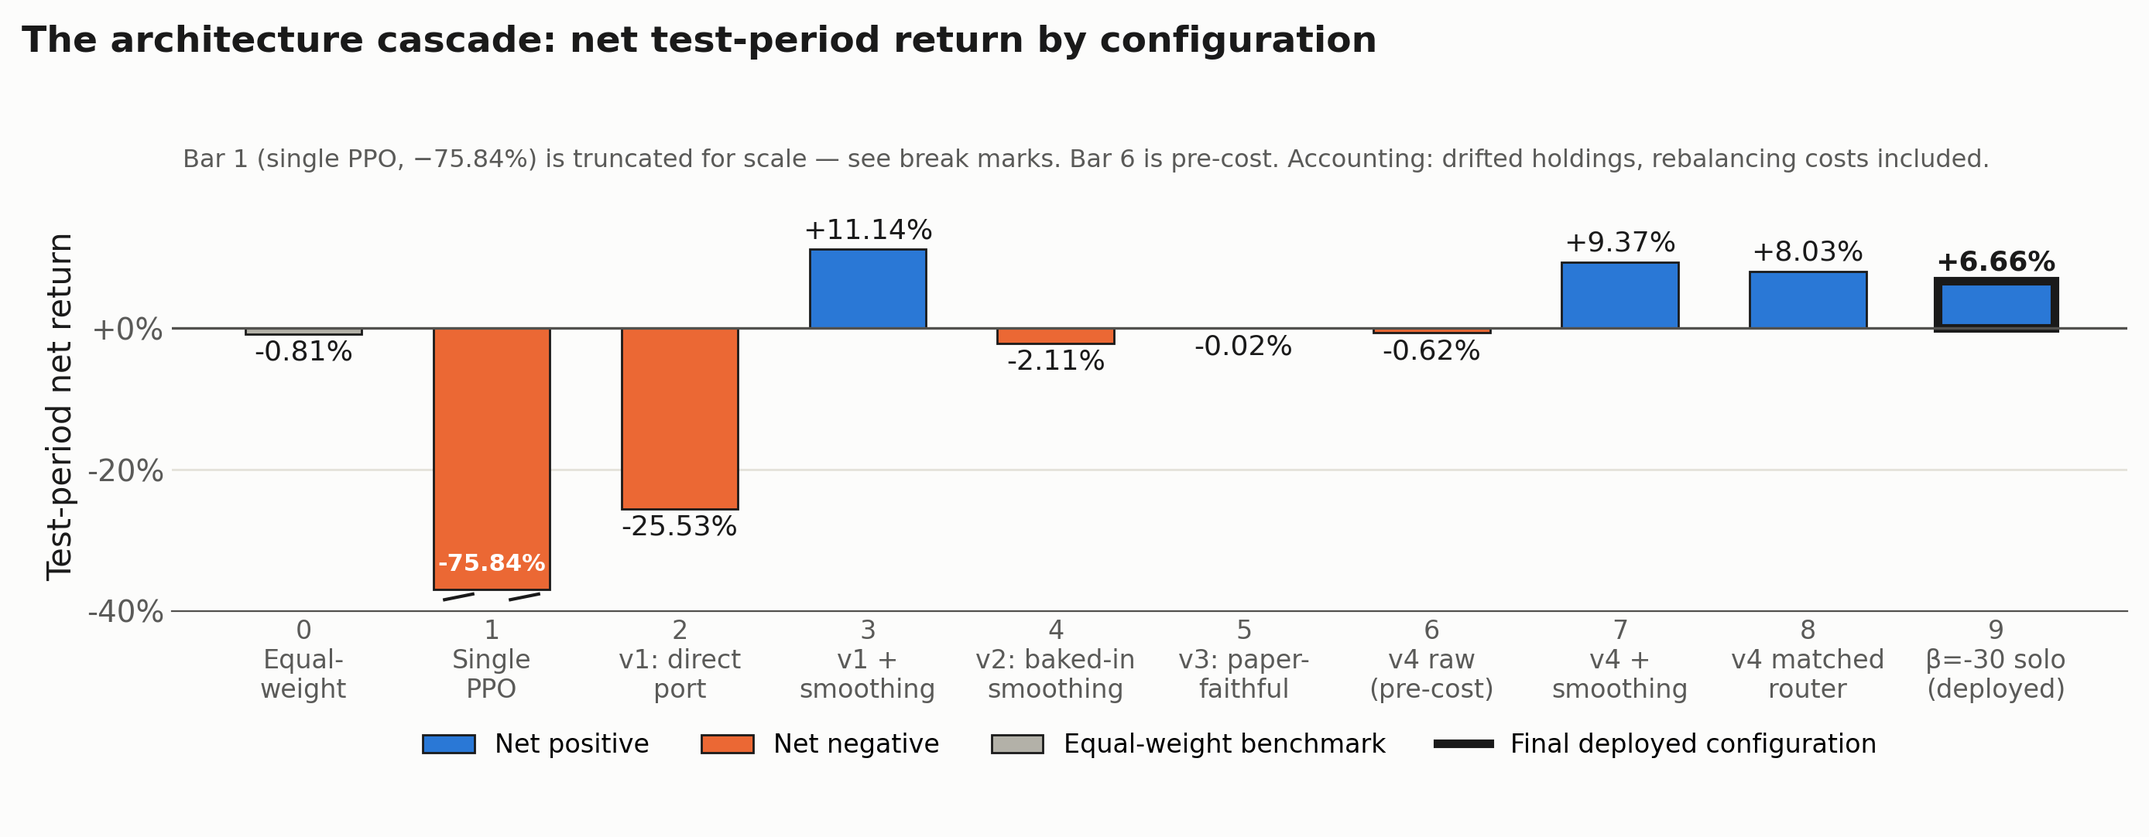
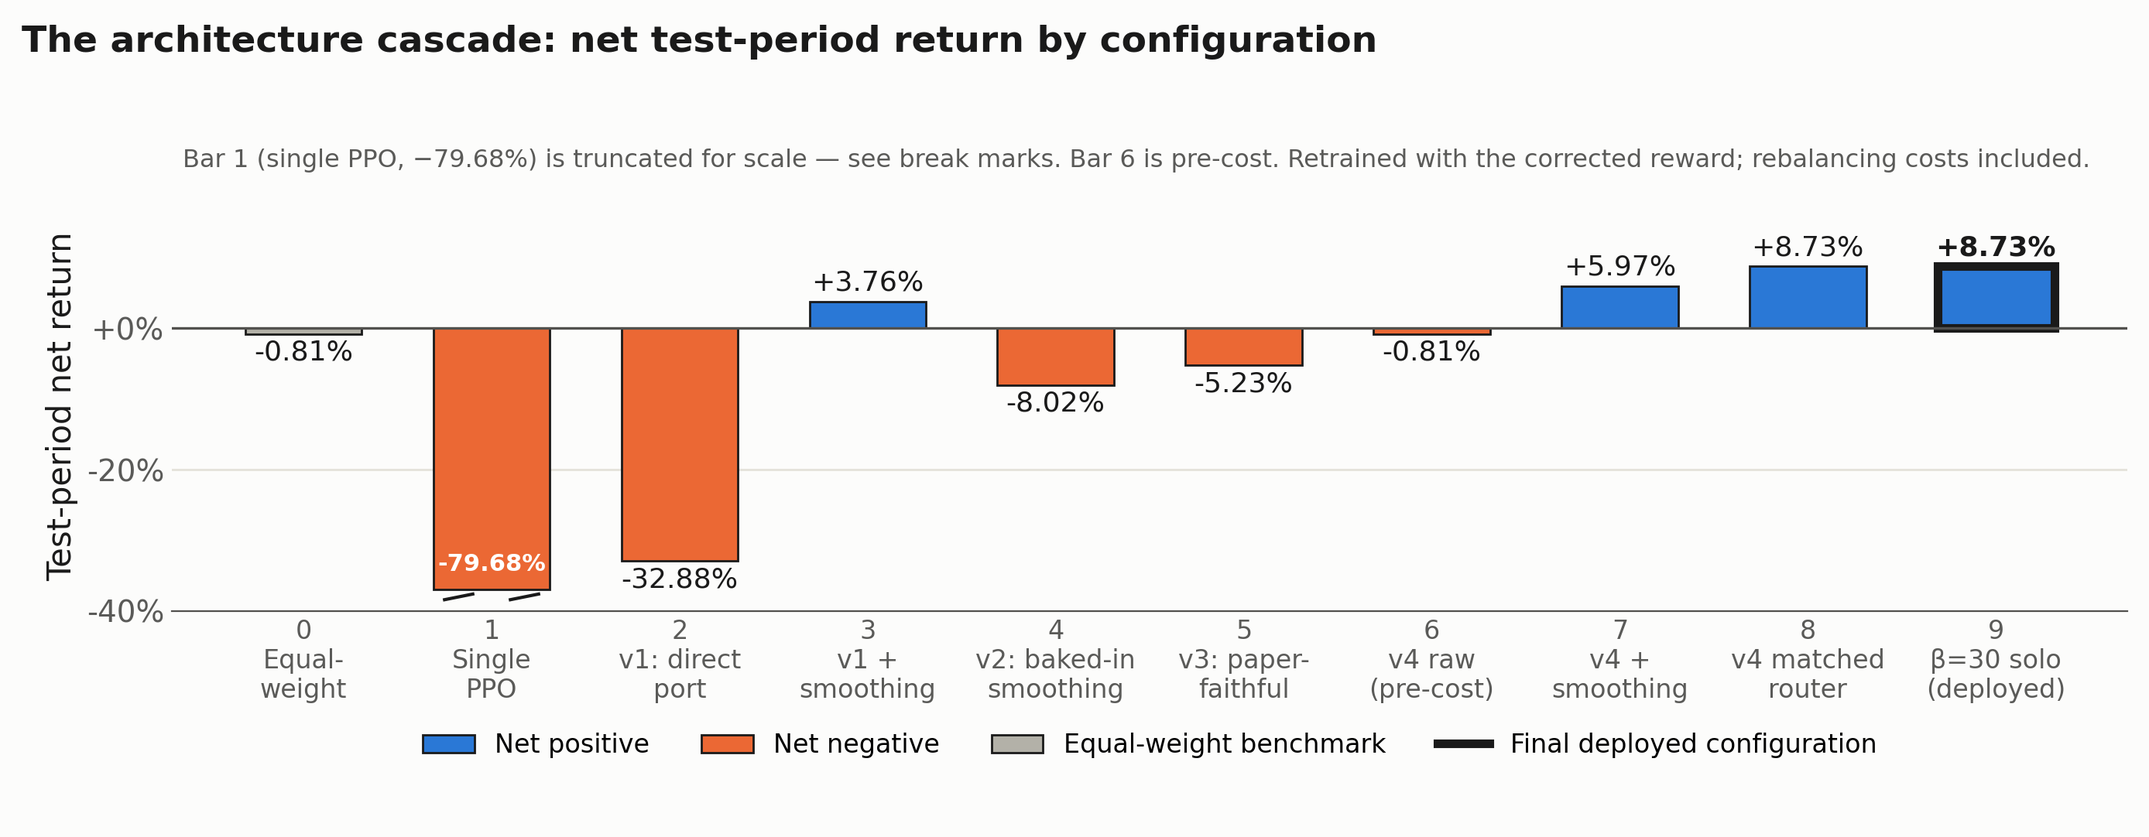
docs: 그림 1·2를 재학습 수치로 다시 그리고 캡션 갱신

diff --git a/paper/figures/generate_fig2.py b/paper/figures/generate_fig2.py
@@ -16,15 +16,15 @@ BG = "#fcfcfb"
 TEXT_DARK = "#1a1a1a"
 TEXT_GRAY = "#5a5a58"
 
-# Post-accounting-correction values (2026-10-04 rerun, crypto/notebooks/rerun_fix1004/results/).
-# Pre-correction experiments (top-K sweep, KOSPI HRL candidate) are deliberately excluded.
+# Policies retrained with the corrected reward (2026-10-06~08, crypto/notebooks/retrain1006/,
+# paper/RETRAIN_1006.md). The clean retrain is excluded: its validation Sharpe was not saved.
 # ---- labeled (highlighted) points: (valid, test, label, color, marker, label_offset) ----
 labeled = [
-    (0.189, 3.033, "β=30", ORANGE, "o", (0.14, 0.05)),
-    (-0.251, 2.240, "Momentum top-10", ORANGE, "s", (0.16, -0.05)),
-    (-0.427, 2.577, "Seed 11 (raw Sharpe max)", AQUA, "o", (0.14, 0.1)),
-    (0.914, 1.310, "β=−30 (deployed)", BLUE, "o", (0.14, -0.05)),
-    (-1.284, -1.175, "β=90 (smallest gap, both negative)", GRAY_EDGE, "^", (0.14, 0.0)),
+    (0.653, 2.602, "β=30 (deployed)", BLUE, "o", (0.14, 0.24)),
+    (-0.986, 2.893, "Seed 121 (raw Sharpe max)", AQUA, "o", (0.14, 0.24)),
+    (-0.251, 2.240, "Momentum", ORANGE, "s", (0.14, -0.02)),
+    (-1.155, 0.448, "β=−30 (old pick)", ORANGE, "o", (0.16, -0.02)),
+    (-0.971, -1.065, "β=90 (smallest gap, both negative)", GRAY_EDGE, "^", (0.14, 0.0)),
 ]
 
 # ---- other configurations (valid Sharpe, test Sharpe, source) ----
@@ -33,39 +33,39 @@ others = [
     (-0.443, 0.854, "Buy & Hold"),
     (-1.078, -0.032, "MVO (Ledoit-Wolf)"),
     (-1.060, -0.497, "Risk parity (inverse-vol)"),
-    (-0.990, 0.176, "EIIE"),
-    (-0.976, 0.214, "LSRE-CAAN"),
-    (0.974, 1.409, "TC=5bp"),
-    (0.794, 1.113, "TC=20bp"),
-    (-0.373, 0.471, "β=-90"),
-    (-0.464, 1.644, "6-seed ensemble"),
-    (-0.460, 0.957, "5-seed ensemble (no seed 11)"),
-    (-0.573, 1.110, "clean retrain"),
-    (0.253, 0.902, "seed=22"), (-0.347, -0.008, "seed=33"), (-1.355, 1.142, "seed=44"),
-    (-0.880, 1.107, "seed=55"), (-1.152, -0.579, "seed=66"), (-0.801, 0.112, "seed=77"),
-    (-0.458, 2.207, "seed=88"), (-0.633, 0.142, "seed=99"), (-1.143, 0.973, "seed=110"),
-    (-0.992, 0.167, "seed=121"), (-0.649, 1.152, "seed=132"), (-1.070, 0.390, "seed=143"),
-    (-0.206, 0.443, "seed=154"), (0.215, 1.610, "seed=165"),
+    (-0.991, 0.148, "EIIE"),
+    (-0.975, 0.193, "LSRE-CAAN"),
+    (0.693, 2.665, "TC=5bp"),
+    (0.573, 2.477, "TC=20bp"),
+    (-0.111, 0.743, "β=-90"),
+    (-1.322, 0.106, "K=5"), (-1.122, 0.672, "K=7"), (-0.916, 0.760, "K=15"),
+    (-0.548, 1.054, "6-seed ensemble"),
+    (-0.797, 1.165, "5-seed ensemble (no seed 11)"),
+    (0.601, 0.383, "seed=11"), (0.732, 1.916, "seed=22"), (-1.313, 1.205, "seed=33"),
+    (-0.788, -0.187, "seed=44"), (-1.365, 1.465, "seed=55"), (-1.067, -0.349, "seed=66"),
+    (-1.108, 0.247, "seed=77"), (-1.761, -0.292, "seed=88"), (-0.464, 1.997, "seed=99"),
+    (-0.238, 0.271, "seed=110"), (-0.771, 1.773, "seed=132"), (-1.225, 0.399, "seed=143"),
+    (-0.526, 1.642, "seed=154"), (-0.788, 1.212, "seed=165"),
 ]
 
 fig, ax = plt.subplots(figsize=(2069/300, 1759/300), dpi=300)
 fig.patch.set_facecolor(BG)
 ax.set_facecolor(BG)
 
-lo, hi = -1.6, 3.4
+lo, hi = -2.0, 3.4
 
 # consistency band |test - valid| < 0.3
 xx = np.linspace(lo, hi, 100)
 ax.fill_between(xx, xx - 0.3, xx + 0.3, color=BAND_COLOR, zorder=1, linewidth=0)
 ax.plot([lo, hi], [lo, hi], linestyle=(0, (7, 5)), color=LINE_COLOR, linewidth=1.8, zorder=2)
-ax.text(hi - 0.75, hi - 0.98, "valid = test", color=TEXT_GRAY, fontsize=12,
-        rotation=45, ha="left", va="center", style="italic")
+ax.text(1.55, 1.2, "valid = test", color=TEXT_GRAY, fontsize=12,
+        rotation=37, ha="left", va="center", style="italic")
 
 # other points
 ox = [p[0] for p in others]
 oy = [p[1] for p in others]
 ax.scatter(ox, oy, s=90, facecolor=GRAY_FILL, edgecolor=GRAY_EDGE, linewidth=0.8,
-           zorder=3, alpha=0.95, label=f"Seeds, ensembles, baselines, TC sweep (n={len(others)})")
+           zorder=3, alpha=0.95, label=f"Seeds, ensembles, baselines, TC and top-K sweeps (n={len(others)})")
 
 # labeled points
 marker_size = {"o": 260, "s": 230, "^": 260}
@@ -75,10 +75,10 @@ for vx, vy, label, color, marker, (dx, dy) in labeled:
     ax.text(vx + dx, vy + dy, label, fontsize=12.5, fontweight="bold", color=TEXT_DARK,
             ha="left" if dx >= 0 else "right", va="center", zorder=6)
 
-ax.set_xlim(-1.6, hi)
+ax.set_xlim(lo, hi)
 ax.set_ylim(lo, hi)
-ax.set_xticks([-1, 0, 1, 2, 3])
-ax.set_yticks([-1, 0, 1, 2, 3])
+ax.set_xticks([-2, -1, 0, 1, 2, 3])
+ax.set_yticks([-2, -1, 0, 1, 2, 3])
 ax.tick_params(labelsize=15, colors=TEXT_DARK, length=0)
 ax.grid(True, color=GRID_COLOR, linewidth=1.1, zorder=0)
 for spine in ["top", "right"]:
@@ -90,10 +90,10 @@ for spine in ["left", "bottom"]:
 ax.set_xlabel("Validation-period Sharpe", fontsize=16, color=TEXT_DARK, labelpad=10)
 ax.set_ylabel("Test-period Sharpe", fontsize=16, color=TEXT_DARK, labelpad=12)
 
-fig.suptitle("Validation vs. test Sharpe (corrected accounting)",
+fig.suptitle("Validation vs. test Sharpe (retrained policies)",
              x=0.02, y=0.975, ha="left", fontsize=14, fontweight="bold", color=TEXT_DARK)
 fig.text(0.02, 0.928,
-          "Most configurations lose in validation and gain in test; only the deployed seed is positive in both",
+          "Most lose in validation and gain in test; only β=30 seeds 42, 11, 22 are positive in both",
           fontsize=9.5, color=TEXT_GRAY, ha="left")
 
 leg = ax.legend(loc="upper center", bbox_to_anchor=(0.5, -0.14), frameon=False,

diff --git a/paper/figures/generate_fig1.py b/paper/figures/generate_fig1.py
@@ -1,7 +1,7 @@
 """Figure 1 — Table 1 (Section 5) as a bar chart.
 
-Values are the post-accounting-correction test-period net returns (2026-10-04 rerun,
-crypto/notebooks/rerun_fix1004/results/). Row 6 is pre-cost, as in Table 1.
+Values are the test-period net returns of the policies retrained with the corrected reward
+(2026-10-06~07, crypto/notebooks/retrain1006/, paper/RETRAIN_1006.md). Row 6 is pre-cost, as in Table 1.
 """
 import matplotlib
 matplotlib.use("Agg")
@@ -20,15 +20,15 @@ FLOOR = -40.0  # axis floor; bars below are truncated
 
 rows = [
     ("Equal-\nweight", -0.81),
-    ("Single\nPPO", -75.84),
-    ("v1: direct\nport", -25.53),
-    ("v1 +\nsmoothing", 11.14),
-    ("v2: baked-in\nsmoothing", -2.11),
-    ("v3: paper-\nfaithful", -0.02),
-    ("v4 raw\n(pre-cost)", -0.62),
-    ("v4 +\nsmoothing", 9.37),
-    ("v4 matched\nrouter", 8.03),
-    ("β=-30 solo\n(deployed)", 6.66),
+    ("Single\nPPO", -79.68),
+    ("v1: direct\nport", -32.88),
+    ("v1 +\nsmoothing", 3.76),
+    ("v2: baked-in\nsmoothing", -8.02),
+    ("v3: paper-\nfaithful", -5.23),
+    ("v4 raw\n(pre-cost)", -0.81),
+    ("v4 +\nsmoothing", 5.97),
+    ("v4 matched\nrouter", 8.73),
+    ("β=30 solo\n(deployed)", 8.73),
 ]
 DEPLOYED = 9
 
@@ -70,8 +70,8 @@ ax.set_ylabel("Test-period net return", fontsize=15, color=TEXT_DARK)
 
 fig.suptitle("The architecture cascade: net test-period return by configuration",
              x=0.01, y=0.97, ha="left", fontsize=17, fontweight="bold", color=TEXT_DARK)
-fig.text(0.085, 0.80, "Bar 1 (single PPO, −75.84%) is truncated for scale — see break marks. "
-         "Bar 6 is pre-cost. Accounting: drifted holdings, rebalancing costs included.",
+fig.text(0.085, 0.80, "Bar 1 (single PPO, −79.68%) is truncated for scale — see break marks. "
+         "Bar 6 is pre-cost. Retrained with the corrected reward; rebalancing costs included.",
          fontsize=11.5, color=TEXT_GRAY, ha="left")
 
 handles = [Patch(facecolor=BLUE, edgecolor=TEXT_DARK, label="Net positive"),

diff --git a/paper/DRAFT.md b/paper/DRAFT.md
@@ -3,7 +3,7 @@
 *Target venue: KDD Applied Data Science track / ACM ICAIF (2027 cycle). Draft status: Abstract + Introduction, first pass.*
 
 
-> **Retraining status (2026-10-08).** The crypto-track policies have been retrained from scratch with a reward that reflects the corrected accounting (Section 3.3), and every crypto figure in Sections 4–6 is a retrained result (`paper/RETRAIN_1006.md`). What remains is regenerating Figures 1–2, filling in the validation-period figures of the Section 6.3 clean retrain, and (optionally) recomputing the Section 6.4 ensemble over 16 seeds.
+> **Retraining status (2026-10-08).** The crypto-track policies have been retrained from scratch with a reward that reflects the corrected accounting (Section 3.3), and every crypto figure in Sections 4–6 is a retrained result (`paper/RETRAIN_1006.md`). What remains is filling in the validation-period figures of the Section 6.3 clean retrain, and (optionally) recomputing the Section 6.4 ensemble over 16 seeds.
 ---
 
 ## Abstract
@@ -230,7 +230,7 @@ Two patterns run through this table. First, the large improvements in the cascad
 
 ![Figure 1: Net test return by configuration](figures/fig1_architecture_cascade.png)
 
-**Figure 1.** A visualization of Table 1. *The current figure is drawn from pre-retraining numbers and needs to be regenerated* (`paper/figures/generate_fig1.py`). Blue bars are net-positive, orange bars net-negative; the deployed configuration (9) is outlined in black. Bar 1 (single PPO) is truncated for scale.
+**Figure 1.** A visualization of Table 1. Drawn from the retrained results (`paper/figures/generate_fig1.py`). Blue bars are net-positive, orange bars net-negative; the deployed configuration (9) is outlined in black. Bar 1 (single PPO) is truncated for scale.
 
 Table 2 places the deployment candidate (row 9) alongside classical and deep-learning baselines and the robustness variants of Section 6, reporting the validation (2025 Q4) / test (2026 H1) Sharpe gap alongside:
 
@@ -416,7 +416,7 @@ Three things follow. First, **the drawdown improvement comes almost entirely fro
 
 ![Figure 2: Validation/test consistency across every swept configuration](figures/fig2_valid_test_consistency.png)
 
-**Figure 2.** *The current figure is drawn from pre-retraining numbers and needs to be regenerated.* Every configuration in Section 6 for which both a validation-period and a test-period Sharpe ratio were computed, plotted against the $y=x$ diagonal (shaded band: $|$gap$|<0.3$). The top-$K$ sweep (Section 6.8, recomputed after the figure was drawn and not added) and the KOSPI candidate of Section 7 (a different market) are excluded (`paper/figures/generate_fig2.py`). After regeneration, the deployment candidate $\beta=30$ will sit 1.950 from the diagonal, 13 of the 16 seeds and the ensembles will cluster in the "validation negative, test positive" quadrant, and the point closest to the diagonal will be $\beta=90$ (0.094), negative in both periods — proximity to the diagonal is not by itself a sufficient success criterion.
+**Figure 2.** Every configuration in Section 6 for which both a validation-period and a test-period Sharpe ratio were computed, plotted against the $y=x$ diagonal (shaded band: $|$gap$|<0.3$); all crypto points are retrained results. The clean retrain (Section 6.3, validation Sharpe not saved) and the KOSPI candidate of Section 7 (a different market) are excluded (`paper/figures/generate_fig2.py`). The deployment candidate $\beta=30$ sits 1.950 from the diagonal; 13 of the 16 seeds, the ensembles, and the $K\neq10$ variants cluster in the "validation negative, test positive" quadrant; seed 121, the raw test-Sharpe maximum, is negative in validation; and the point closest to the diagonal is $\beta=90$ (0.094), negative in both periods — proximity to the diagonal is not by itself a sufficient success criterion.
 
 ---
 
@@ -485,7 +485,7 @@ We list the limitations of this study directly, in the order they arise across S
 8. **The EIIE and LSRE-CAAN baselines (Section 6.6) reimplement only the network topology, not the original training procedure.** Both original papers' training methods (EIIE's OSBL, LSRE-CAAN's direct policy gradient) are replaced with this paper's PPO pipeline; the comparisons in Section 6.6 should be read as "each architecture under our training regime," not as full reproductions of Jiang, Xu, & Liang (2017) or Li, Zhang, Yang, & Chen (2023).
 9. **This is an empirical case study and diagnostic methodology, not a new algorithm.** Every architectural component in Sections 4 and the diagnostics in Section 6 are adaptations of existing published methods (Section 2); the paper's contribution is the documented failure cascade and the validation methodology built to interrogate it, which is why we position this work for an applied-science venue (Section 1) rather than a methods-focused main research track.
 10. **Live deployment evidence is preliminary.** The final policy (Section 4.6) is running on a real exchange account as of this writing, but the live trading log has been accumulating only since 2026-07-29 and is not yet long enough to serve as an independent validation of the backtested results reported in Sections 5–6; we report the live deployment as the current operational status of this work, not as additional evidence for its claims. Moreover, the policy running in the live account is the $\beta=-30$ specialist trained with the pre-correction reward; it differs from the retrained deployment candidate ($\beta=30$), and after retraining the same configuration loses money in validation — it needs to be replaced. That the replacement candidate $\beta=30$ is a very conservative policy with 10–20% average risky-asset exposure (Section 6.11) should also inform that operational decision.
-11. **The crypto policies have been retrained with the corrected reward, but the figures and a few auxiliary numbers have not yet been updated.** After fixing the accounting errors of Section 3.3 (holding drift and untradable-asset handling), we retrained and re-evaluated from scratch, with the corrected reward, the crypto policies, routers, baselines, and robustness experiments of Sections 4–6, as well as the objective-injection experiment of Section 4.3 (`crypto/notebooks/retrain1006/`, `paper/RETRAIN_1006.md`). Figures 1–2 are drawn from pre-retraining numbers and need to be regenerated, the validation-period figures of the Section 6.3 clean retrain are not yet filled in, and the Section 6.4 ensemble was computed over the first six seeds only. The KOSPI, U.S. large-cap, and point-in-time experiments of Section 7 were recomputed under the corrected environment (only the KOSPI single-policy PPO was retrained; the rest were re-evaluated). The Section 7 KOSPI HRL was trained on the original, defective embedding pipeline.
+11. **The crypto policies have been retrained with the corrected reward, but a few auxiliary numbers have not yet been updated.** After fixing the accounting errors of Section 3.3 (holding drift and untradable-asset handling), we retrained and re-evaluated from scratch, with the corrected reward, the crypto policies, routers, baselines, and robustness experiments of Sections 4–6, as well as the objective-injection experiment of Section 4.3 (`crypto/notebooks/retrain1006/`, `paper/RETRAIN_1006.md`). The validation-period figures of the Section 6.3 clean retrain are not yet filled in, and the Section 6.4 ensemble was computed over the first six seeds only. The KOSPI, U.S. large-cap, and point-in-time experiments of Section 7 were recomputed under the corrected environment (only the KOSPI single-policy PPO was retrained; the rest were re-evaluated). The Section 7 KOSPI HRL was trained on the original, defective embedding pipeline.
 
 ---
 
@@ -502,7 +502,7 @@ The live account currently runs the pre-retraining policy ($\beta=-30$), which n
 ## Notes for next drafting pass (not part of the paper body)
 
 - **Related work added (2026-10-04)**: per the external critique, added MoEDRLPM (Wei et al., 2025, Appl. Intell.) to Section 2.1 and DeepTrader (Wang et al., 2021, AAAI) to Section 2.2, with ‡ rows in the Section 2.6 table (abstract-based, not checked against full text). Contribution 2 now states that the structure itself exists in prior work. Bibliographic data verified via Crossref. Remaining: fill the ‡ rows once full texts are obtained.
-- **β=30 robustness and evaluation re-runs applied (2026-10-08)**: results of `crypto_beta30_robustness_rt1006` (16 seeds, DSR N=16, clean retrain, top-K) and `crypto_eval_beta30_ddqn_rt1006` (transaction cost, permutation test, exposure matching, diversity, low turnover, DDQN) applied to the Abstract, 1.3, 1.4, 4.4, 4.5, 4.6, Table 2, 6.1–6.4, 6.8–6.11, the Figure 2 caption, Limitations 2/3/4/6/7/10/11, and Section 9. Main changes: all ten added seeds have negative validation Sharpe; K=10 is now also selected by validation (the pre-retraining K=5 issue is gone); permutation p-values no longer follow the qualitative ordering; exposure matching reproduces most test performance via exposure timing (Sharpe 1.998 vs. 2.602); DDQN collapses onto β=90. Remaining: regenerate Figures 1–2, fill in the 6.3 clean model's validation figures, optionally recompute the 6.4 ensemble over 16 seeds.
+- **β=30 robustness and evaluation re-runs applied (2026-10-08)**: results of `crypto_beta30_robustness_rt1006` (16 seeds, DSR N=16, clean retrain, top-K) and `crypto_eval_beta30_ddqn_rt1006` (transaction cost, permutation test, exposure matching, diversity, low turnover, DDQN) applied to the Abstract, 1.3, 1.4, 4.4, 4.5, 4.6, Table 2, 6.1–6.4, 6.8–6.11, the Figure 2 caption, Limitations 2/3/4/6/7/10/11, and Section 9. Main changes: all ten added seeds have negative validation Sharpe; K=10 is now also selected by validation (the pre-retraining K=5 issue is gone); permutation p-values no longer follow the qualitative ordering; exposure matching reproduces most test performance via exposure timing (Sharpe 1.998 vs. 2.602); DDQN collapses onto β=90. Figures 1–2 regenerated from retrained values the same day. Remaining: fill in the 6.3 clean model's validation figures, optionally recompute the 6.4 ensemble over 16 seeds.
 - **Full retraining with the corrected reward applied (2026-10-07)**: retrained the single PPO, v1–v4, routers, EIIE/LSRE-CAAN, and β=30 six seeds/ensemble/DSR via `crypto/notebooks/retrain1006/`. The deployment candidate changed from β=−30 to β=30 (validation Sharpe 0.653, test 2.602). Updated the abstract, Sections 1.2–1.4, 4, 5, 6.1, 6.2, 6.4, 6.6, Section 7 crypto references, Limitations 2, 3, 4, 6, 7, 10, 11, and Section 9. Section 6.1 N=16, 6.3, 6.8–6.11, Section 4.4 diagnostic figures, and Figures 1–2 await re-runs/regeneration (`paper/RETRAIN_1006.md`).
 - **Objective-injection and DDQN retraining applied (2026-10-05)**: results of `crypto_objinj_retrain_fix1004.ipynb` (baseline, λ=0.01, λ=0.15 pools retrained) and `crypto_ddqn_retrain_fix1004.ipynb` (DQN/DDQN matched routers retrained). Withdrew the Section 4.3 dose-response claim (rank correlation −0.400/−0.800/−0.600, non-monotonic); DDQN collapsed onto β=−30, so "collapses onto the same specialist" became "the collapse recurs, the target specialist depends on the algorithm." Updated Sections 4.5, 3.3, Limitations 1, 3, 11, and Section 9.
 - **Section 6.8 top-$K$ sweep re-evaluated (2026-10-05)**: re-evaluated the K=5/7/15 models under the corrected environment (`crypto_topk_rerun_fix1004.ipynb`). The highest validation Sharpe turned out to be K=5 (1.529), so the claim that "only K=10 passes the consistency criterion" was withdrawn and K=10 is now described as fixed before the sweep. Updated the Section 3.3 exception list, Figure 2 caption, Limitations 2 and 11, Section 1.3, and the "second-largest gap" wording in Section 5.

diff --git a/README.md b/README.md
@@ -119,7 +119,7 @@ EarnHFT(Qin et al., AAAI'24)라는 논문은 원래 자산 하나, 포지션도 
 
 이 결론이 우연이 아닌지 확인하려고 할 수 있는 건 다 해봤다. 시드 16개 중 12개는 테스트에서 등가중보다 낫지만, 검증에서 플러스인 건 3개(42, 11, 22)뿐이고 새로 더한 10개는 전부 검증 마이너스다. 앙상블은 검증에서 손실, DSR(0.707, N=16)과 순열검정(p=0.50)도 유의수준에 못 미친다. 즉 "검증·테스트 둘 다 플러스"는 구성 전반이 아니라 일부 시드의 성질이다. 클린 재학습(테스트 샤프 1.907), top-K 스윕(K=10이 검증으로도 최고), 거래비용 2배(샤프 2.477)에서는 결론이 유지된다. 가장 중요한 발견은 노출 맞춤 비교다 — 이 정책은 평균 노출 10~20%의 매우 보수적인 정책이고, 같은 노출 경로로 등가중을 들어도 테스트 샤프 1.998·MDD −4.60%가 나온다. 낮은 낙폭은 거의 전부, 테스트 성과는 대부분 노출 타이밍에서 온다. 자세한 수치는 5.3절과 [`paper/RETRAIN_1006.md`](paper/RETRAIN_1006.md) 참고.
 
-> 2026-10-04: 외부 평가에서 백테스트 회계 오류(수익 반영 뒤에도 목표 비중을 그대로 보유 비중으로 써서 등가중 포함 재조정 비용이 0으로 계산되고, 상장 전·상폐 후 종목을 수익률 0 자산처럼 들고 있을 수 있던 문제)를 지적받아 전 노트북을 고치고 재평가했다. 이 README의 크립토 수치는 수정된 보상으로 **다시 학습한** 정책의 값이다(2026-10-07, `crypto/notebooks/retrain1006/`). 그림 1·2만 아직 재학습 전 수치다.
+> 2026-10-04: 외부 평가에서 백테스트 회계 오류(수익 반영 뒤에도 목표 비중을 그대로 보유 비중으로 써서 등가중 포함 재조정 비용이 0으로 계산되고, 상장 전·상폐 후 종목을 수익률 0 자산처럼 들고 있을 수 있던 문제)를 지적받아 전 노트북을 고치고 재평가했다. 이 README의 크립토 수치는 수정된 보상으로 **다시 학습한** 정책의 값이다(2026-10-07, `crypto/notebooks/retrain1006/`). 그림 1·2도 재학습 결과로 다시 그렸다.
 
 ---
 
@@ -345,7 +345,6 @@ python -m crypto.live_trading_loop_binance --model-dir crypto/models --live
 - 백테스트 회계 오류 수정(2026-10-04)과 크립토 정책 전체 재학습(2026-10-06~07, `crypto/notebooks/retrain1006/`)
 
 **남은 일**
-- 그림 1·2 재생성
 - 클린 재학습 모델의 검증 구간 수치 기입(CSV 미저장, Colab 출력에서 옮겨야 함)
 - (선택) 앙상블을 16시드로 재계산
 - 실계좌 정책 교체 여부 결정 (재학습 후 β=-30은 검증 구간에서 손실)

diff --git a/paper/RETRAIN_1006.md b/paper/RETRAIN_1006.md
@@ -243,6 +243,6 @@ K=10이 두 구간 모두 최고이고 검증 플러스는 K=10뿐이다. 검증
 
 - 선택: 6시드 앙상블을 16시드로 다시 계산(노트북 없음).
 - ~~논문 본문에 이 문서 수치 옮기기~~ — 2026-10-08 완료(DRAFT·DRAFT_KR·DRAFT_KR_easy·README).
-- 그림 1·2 재생성.
+- ~~그림 1·2 재생성~~ — 2026-10-08 완료(`paper/figures/generate_fig{1,2}.py`).
 - 클린 재학습 모델의 검증 구간 수치(CSV에 저장되지 않음 — Colab 출력에서 옮겨 논문 6.3절·표 2에 기입).
 - 실계좌 β=−30 → β=30 교체 여부 결정. 6.3절에 따르면 β=30은 평균 노출 10~20%의 매우 보수적인 정책이다.
